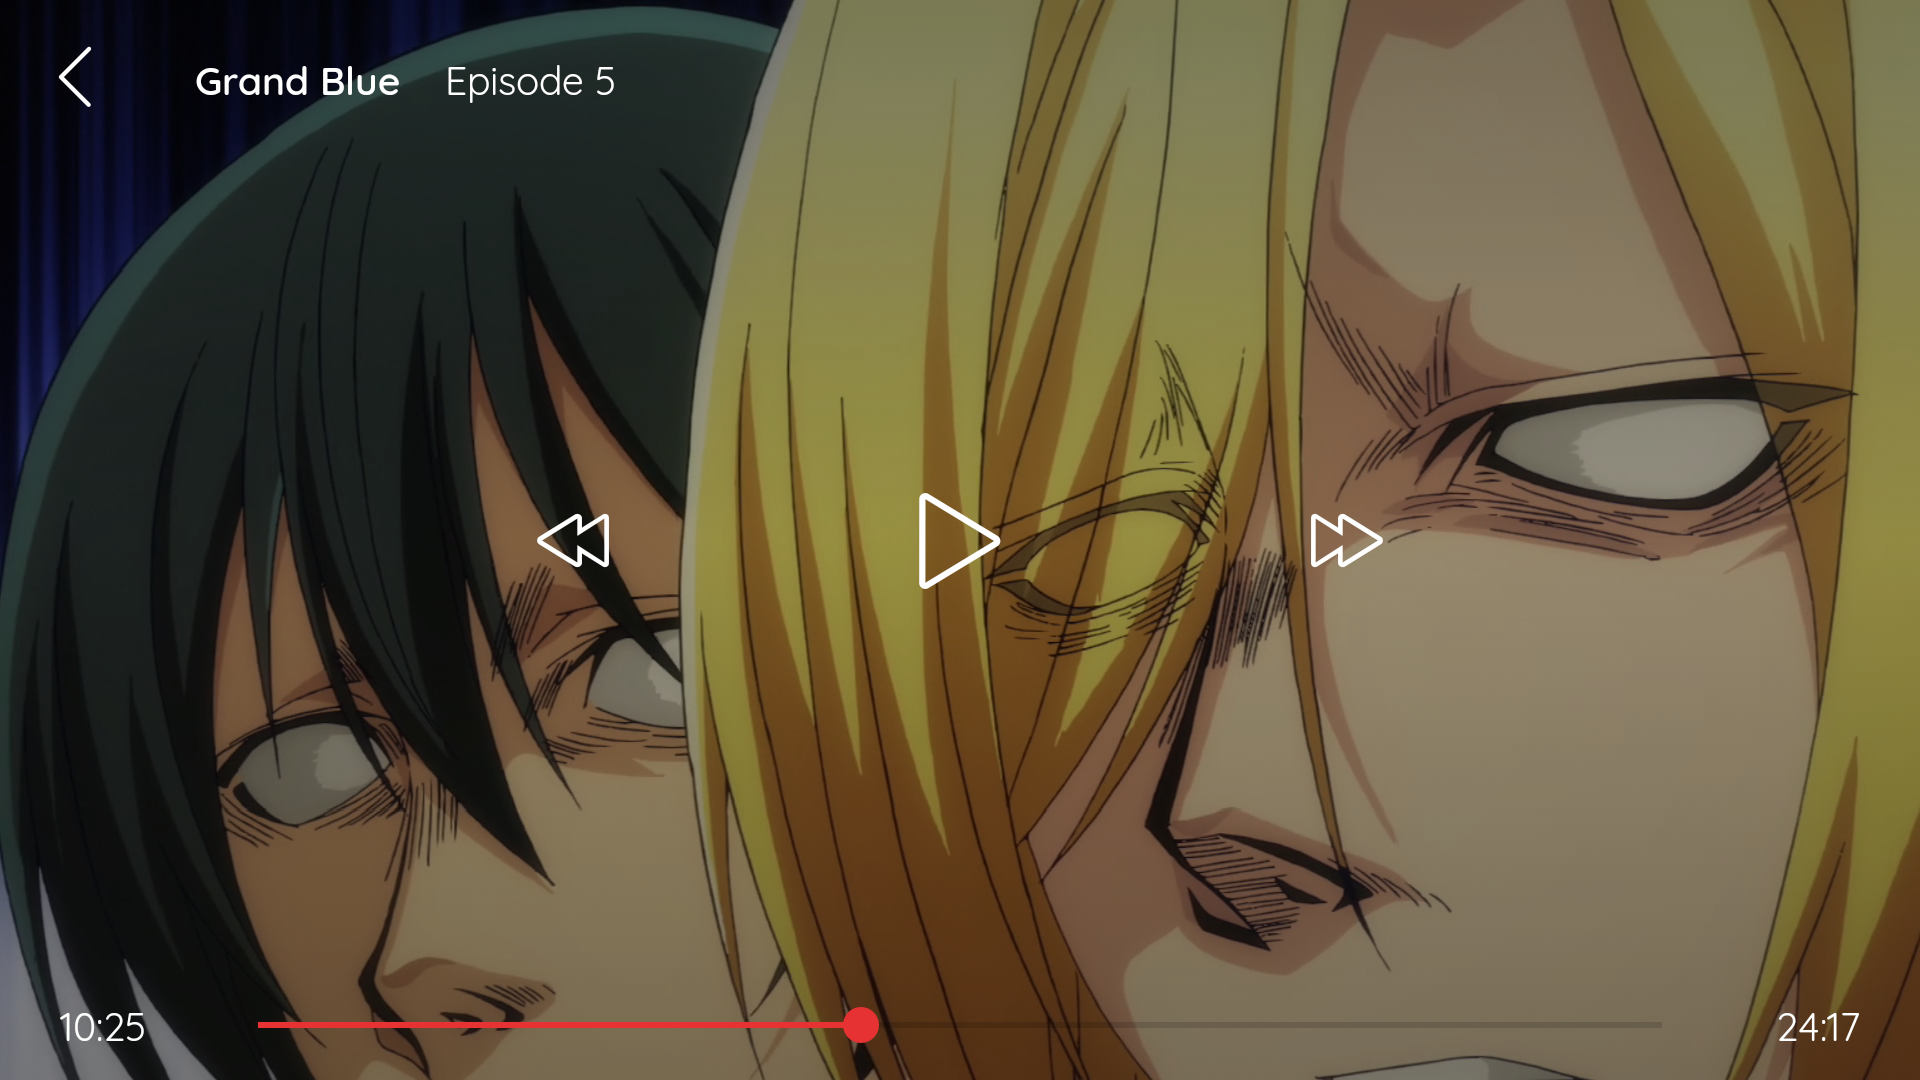
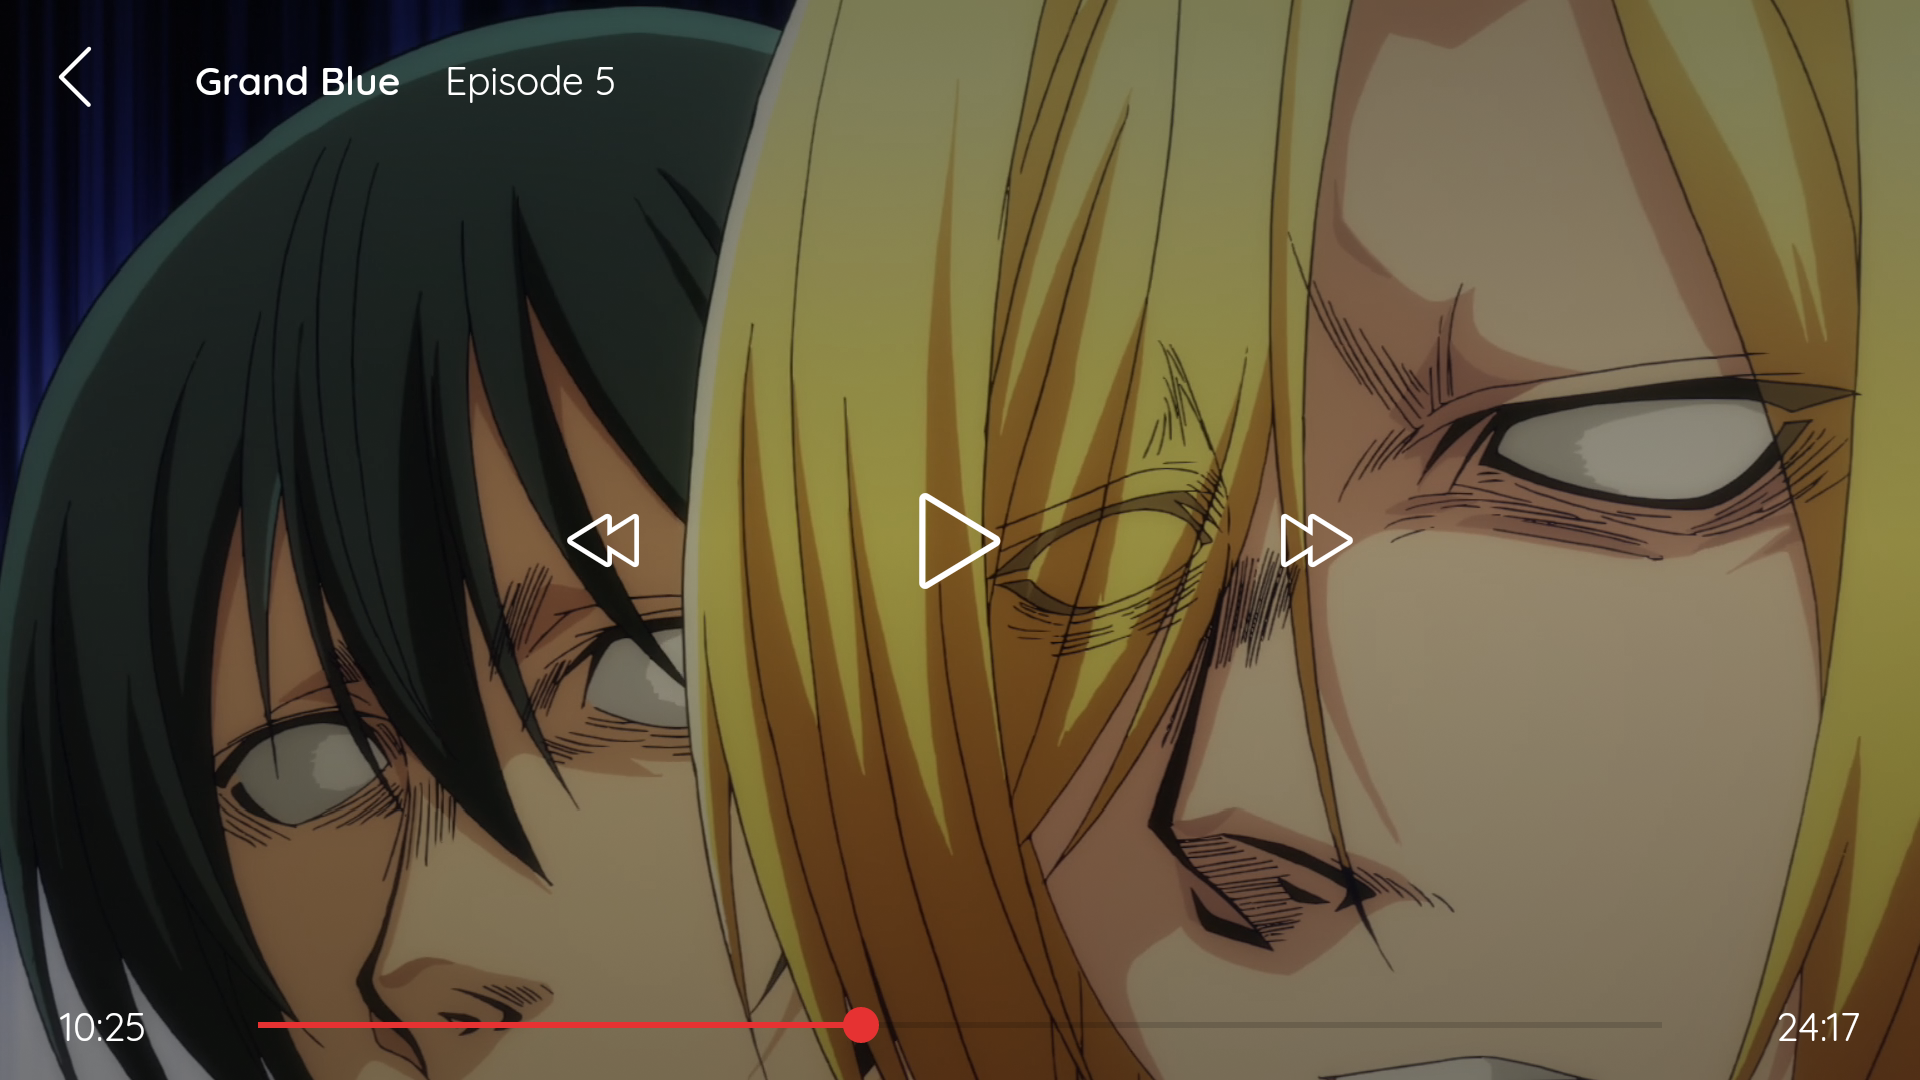
Small animation design changes.

diff --git a/src/screens/SearchScreen/index.js b/src/screens/SearchScreen/index.js
@@ -3,7 +3,7 @@ import { useFocusEffect } from '@react-navigation/native';
 import PropTypes from 'prop-types';
 import React, { useEffect, useState } from 'react';
 import {
-  ActivityIndicator, Animated, Text, TouchableOpacity, View,
+  ActivityIndicator, Animated, Text, View,
 } from 'react-native';
 import { RectButton } from 'react-native-gesture-handler';
 import { connect } from 'react-redux';
@@ -24,8 +24,7 @@ const SearchScreen = ({
 
   const [fadeAnimation] = useState(new Animated.Value(0));
   const [failedRequestFadeAnimation] = useState(new Animated.Value(0));
-
-  const AnimatedTouchableOpacity = Animated.createAnimatedComponent(TouchableOpacity);
+  const [searchFadeAnimation] = useState(new Animated.Value(0));
 
   const playFadeAnimation = (animation) => Animated.spring(animation, {
     tension: 10,
@@ -57,7 +56,7 @@ const SearchScreen = ({
 
       setIsReady(true);
 
-      playFadeAnimation(fadeAnimation);
+      playFadeAnimation(searchFadeAnimation);
     } else {
       setFailedRequest(true);
 
@@ -86,29 +85,32 @@ const SearchScreen = ({
           transform: [{
             translateY: fadeAnimation.interpolate({
               inputRange: [0, 1],
-              outputRange: [-100, 0],
+              outputRange: [-37.5, 0],
             }),
           }],
         }]}
       />
 
       {isReady ? (
-        <AnimatedTouchableOpacity
-          activeOpacity={1}
-          onPress={handleSearchPress}
-          style={[styles.search, {
-            opacity: fadeAnimation,
+        <Animated.View
+          style={[styles.searchView, {
+            opacity: searchFadeAnimation,
           }]}
         >
-          <AntDesign
-            color="white"
-            name="search1"
-            size={24}
-            style={styles.icon}
-          />
+          <RectButton
+            onPress={handleSearchPress}
+            style={styles.search}
+          >
+            <AntDesign
+              color="white"
+              name="search1"
+              size={24}
+              style={styles.icon}
+            />
 
-          <Text style={styles.searchText}>Search for an anime!</Text>
-        </AnimatedTouchableOpacity>
+            <Text style={styles.searchText}>Search for an anime!</Text>
+          </RectButton>
+        </Animated.View>
       ) : (
         <>
           {failedRequest ? (
@@ -118,7 +120,7 @@ const SearchScreen = ({
                 transform: [{
                   translateY: failedRequestFadeAnimation.interpolate({
                     inputRange: [0, 1],
-                    outputRange: [100, 0],
+                    outputRange: [25, 0],
                   }),
                 }],
               }]}

diff --git a/src/screens/FavoritesScreen/index.js b/src/screens/FavoritesScreen/index.js
@@ -21,21 +21,13 @@ const FavoritesScreen = ({
   const [clearFavoritesModalVisible, setClearFavoritesModalVisible] = useState(false);
 
   const [fadeAnimation] = useState(new Animated.Value(0));
-  const [scrollViewAnimation] = useState(new Animated.Value(100));
 
   useFocusEffect(() => {
-    Animated.parallel([
-      Animated.spring(fadeAnimation, {
-        tension: 10,
-        toValue: 1,
-        useNativeDriver: true,
-      }),
-      Animated.spring(scrollViewAnimation, {
-        tension: 10,
-        toValue: 0,
-        useNativeDriver: true,
-      }),
-    ]).start();
+    Animated.spring(fadeAnimation, {
+      tension: 10,
+      toValue: 1,
+      useNativeDriver: true,
+    }).start();
   });
 
   const playLayoutAnimation = (duration) => {
@@ -85,7 +77,7 @@ const FavoritesScreen = ({
           transform: [{
             translateY: fadeAnimation.interpolate({
               inputRange: [0, 1],
-              outputRange: [-100, 0],
+              outputRange: [-37.5, 0],
             }),
           }],
         }]}
@@ -101,7 +93,7 @@ const FavoritesScreen = ({
               transform: [{
                 translateX: fadeAnimation.interpolate({
                   inputRange: [0, 1],
-                  outputRange: [100, 0],
+                  outputRange: [25, 0],
                 }),
               }],
             }]}
@@ -118,12 +110,12 @@ const FavoritesScreen = ({
             contentContainerStyle={styles.scrollViewContainer}
             overScrollMode="never"
             style={[styles.scrollView, {
-              opacity: scrollViewAnimation.interpolate({
-                inputRange: [0, 100],
-                outputRange: [1, 0],
-              }),
+              opacity: fadeAnimation,
               transform: [{
-                translateY: scrollViewAnimation,
+                translateY: fadeAnimation.interpolate({
+                  inputRange: [0, 1],
+                  outputRange: [50, 0],
+                }),
               }],
             }]}
           >
@@ -151,7 +143,7 @@ const FavoritesScreen = ({
             transform: [{
               translateY: fadeAnimation.interpolate({
                 inputRange: [0, 1],
-                outputRange: [100, 0],
+                outputRange: [25, 0],
               }),
             }],
           }]}

diff --git a/src/screens/SecondSearchScreen/index.js b/src/screens/SecondSearchScreen/index.js
@@ -18,7 +18,7 @@ const SecondSearchScreen = ({ animeList, navigation, settings }) => {
   const [fadeAnimation] = useState(new Animated.Value(0));
   const [noResultsFadeAnimation] = useState(new Animated.Value(0));
   const [scrollFadeAnimation] = useState(new Animated.Value(0));
-  const [watchTextAnimation] = useState(new Animated.Value(-100));
+  const [watchTextAnimation] = useState(new Animated.Value(-25));
 
   const [firstSearchDone, setFirstSearchDone] = useState(false);
   const [isSearching, setIsSearching] = useState(false);
@@ -161,7 +161,7 @@ const SecondSearchScreen = ({ animeList, navigation, settings }) => {
                     transform: [{
                       translateY: noResultsFadeAnimation.interpolate({
                         inputRange: [0, 1],
-                        outputRange: [-100, 0],
+                        outputRange: [-25, 0],
                       }),
                     }],
                   }]}
@@ -184,7 +184,7 @@ const SecondSearchScreen = ({ animeList, navigation, settings }) => {
                     transform: [{
                       translateY: scrollFadeAnimation.interpolate({
                         inputRange: [0, 1],
-                        outputRange: [-100, 0],
+                        outputRange: [-50, 0],
                       }),
                     }],
                   }]}
@@ -204,7 +204,7 @@ const SecondSearchScreen = ({ animeList, navigation, settings }) => {
             <Animated.View
               style={[styles.container, {
                 opacity: watchTextAnimation.interpolate({
-                  inputRange: [-100, 0],
+                  inputRange: [-25, 0],
                   outputRange: [0, 1],
                 }),
                 transform: [{

diff --git a/src/screens/AnimeScreen/index.js b/src/screens/AnimeScreen/index.js
@@ -259,7 +259,7 @@ const AnimeScreen = ({
           transform: [{
             translateY: fadeAnimation.interpolate({
               inputRange: [0, 1],
-              outputRange: [-100, 0],
+              outputRange: [-37.5, 0],
             }),
           }],
         }]}
@@ -320,7 +320,7 @@ const AnimeScreen = ({
                   transform: [{
                     translateY: scrollViewFadeAnimation.interpolate({
                       inputRange: [0, 1],
-                      outputRange: [200, 0],
+                      outputRange: [100, 0],
                     }),
                   }],
                 }}
@@ -337,7 +337,7 @@ const AnimeScreen = ({
                 transform: [{
                   translateY: scrollViewFadeAnimation.interpolate({
                     inputRange: [0, 1],
-                    outputRange: [100, 0],
+                    outputRange: [25, 0],
                   }),
                 }],
               }]}
@@ -367,7 +367,7 @@ const AnimeScreen = ({
                 transform: [{
                   translateY: scrollViewFadeAnimation.interpolate({
                     inputRange: [0, 1],
-                    outputRange: [100, 0],
+                    outputRange: [25, 0],
                   }),
                 }],
               }]}
@@ -415,8 +415,8 @@ const AnimeScreen = ({
           opacity: rotateButtonAnimation,
           transform: [{
             translateY: rotateButtonAnimation.interpolate({
-              inputRange: [0, 0.1, 1],
-              outputRange: [300, 10, 0],
+              inputRange: [0, 0.005, 1],
+              outputRange: [500, 10, 0],
             }),
           }],
         }]}

diff --git a/src/screens/SettingsScreen/index.js b/src/screens/SettingsScreen/index.js
@@ -62,7 +62,7 @@ const SettingsScreen = ({
           transform: [{
             translateY: fadeAnimation.interpolate({
               inputRange: [0, 1],
-              outputRange: [-100, 0],
+              outputRange: [-37.5, 0],
             }),
           }],
         }]}
@@ -76,7 +76,7 @@ const SettingsScreen = ({
           transform: [{
             translateX: fadeAnimation.interpolate({
               inputRange: [0, 1],
-              outputRange: [100, 0],
+              outputRange: [25, 0],
             }),
           }],
         }]}
@@ -95,7 +95,7 @@ const SettingsScreen = ({
           transform: [{
             translateY: fadeAnimation.interpolate({
               inputRange: [0, 1],
-              outputRange: [100, 0],
+              outputRange: [50, 0],
             }),
           }],
         }]}

diff --git a/src/screens/SecondSearchScreen/styles.js b/src/screens/SecondSearchScreen/styles.js
@@ -1,4 +1,4 @@
-import { StyleSheet } from 'react-native';
+import { Dimensions, StyleSheet } from 'react-native';
 
 const styles = StyleSheet.create({
   animatedInput: {
@@ -8,7 +8,7 @@ const styles = StyleSheet.create({
     marginTop: 20,
     paddingVertical: 5,
     position: 'absolute',
-    width: '90%',
+    width: Dimensions.get('window').width - 50,
     zIndex: 1,
   },
   container: {
@@ -47,7 +47,7 @@ const styles = StyleSheet.create({
   },
   searchScrollContent: {
     alignItems: 'stretch',
-    paddingHorizontal: 25,
+    paddingHorizontal: 27.5,
     paddingTop: 70,
   },
   watchText: {

diff --git a/src/screens/SearchScreen/styles.js b/src/screens/SearchScreen/styles.js
@@ -46,12 +46,16 @@ const styles = StyleSheet.create({
     flexDirection: 'row',
     justifyContent: 'center',
     paddingVertical: 15,
-    width: '90%',
+    width: '100%',
   },
   searchText: {
     color: 'white',
     fontFamily: 'Quicksand_400Regular',
     fontSize: 16,
+  },
+  searchView: {
+    alignSelf: 'stretch',
+    marginHorizontal: 25,
   },
   settingsButton: {
     alignItems: 'center',

diff --git a/src/screens/VideoScreen/styles.js b/src/screens/VideoScreen/styles.js
@@ -11,7 +11,7 @@ const styles = StyleSheet.create({
     flexDirection: 'row',
     justifyContent: 'space-between',
     position: 'absolute',
-    width: '50%',
+    width: '46.875%',
     zIndex: 2,
   },
   centerControlsButton: {

diff --git a/src/screens/AnimeScreen/styles.js b/src/screens/AnimeScreen/styles.js
@@ -63,6 +63,7 @@ const styles = StyleSheet.create({
     borderRadius: 5,
     color: 'white',
     fontFamily: 'Quicksand_400Regular',
+    fontSize: 13,
     paddingHorizontal: 10,
     paddingVertical: 5,
   },
